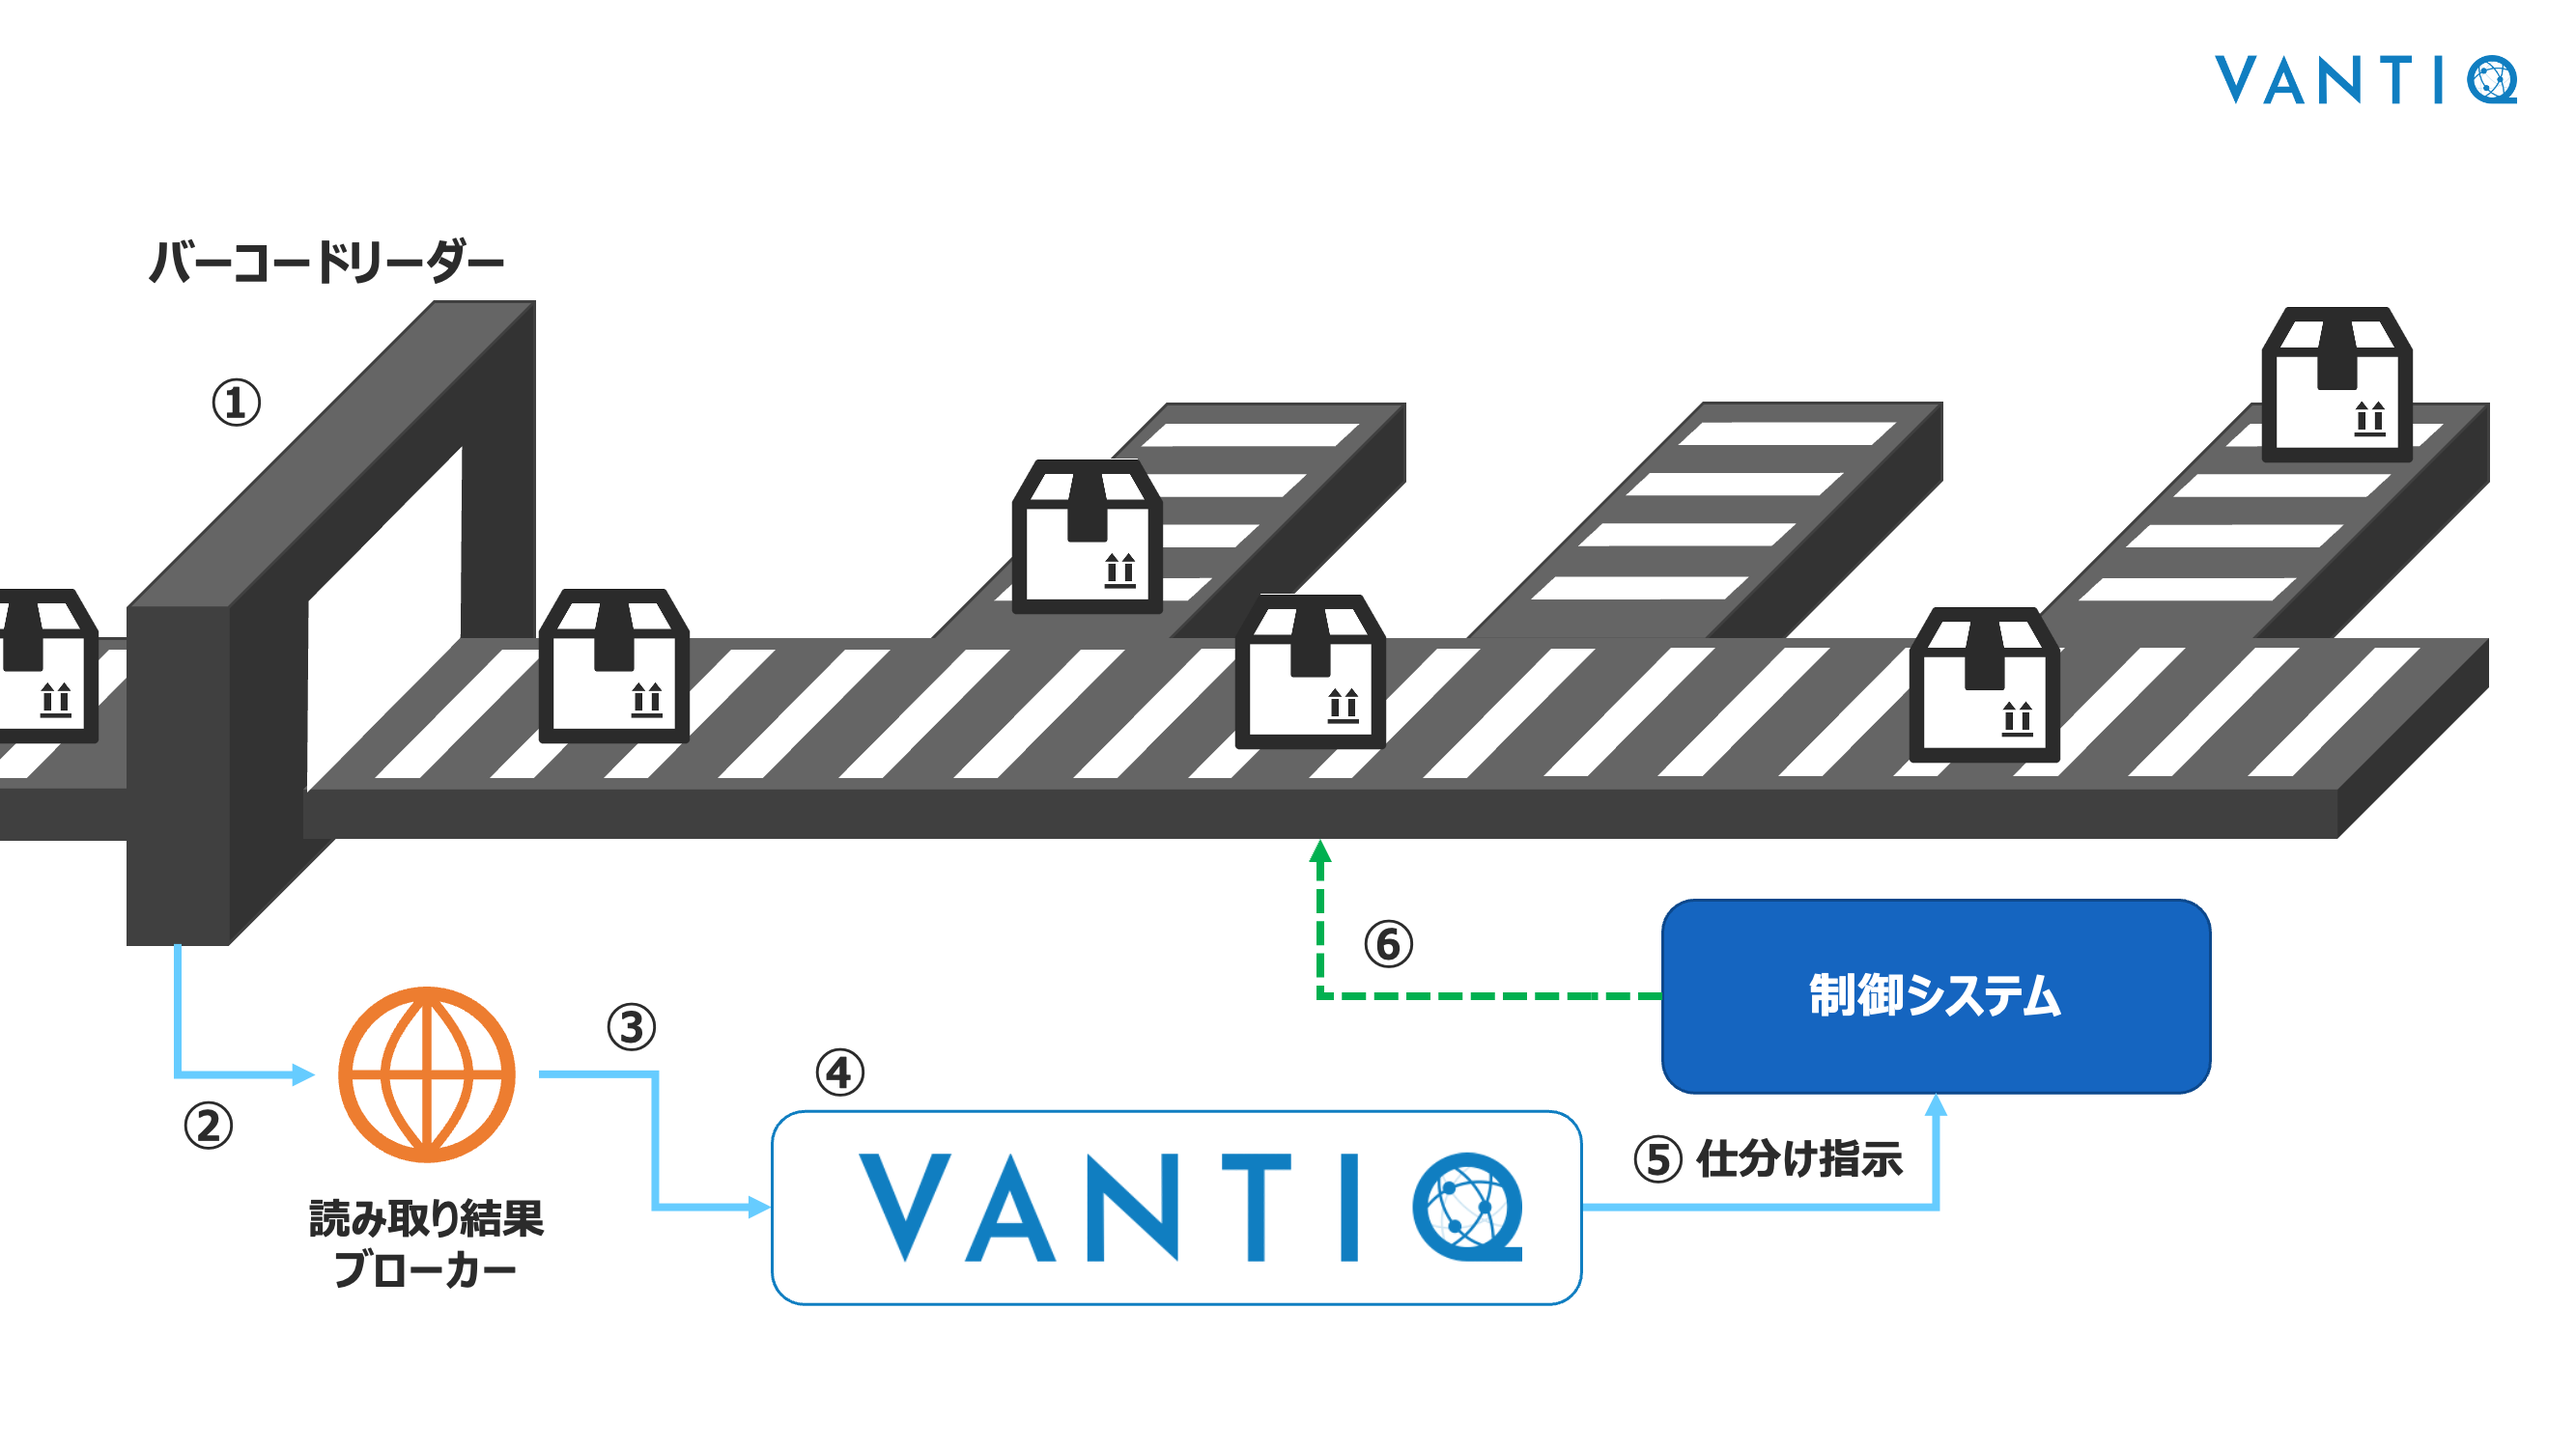
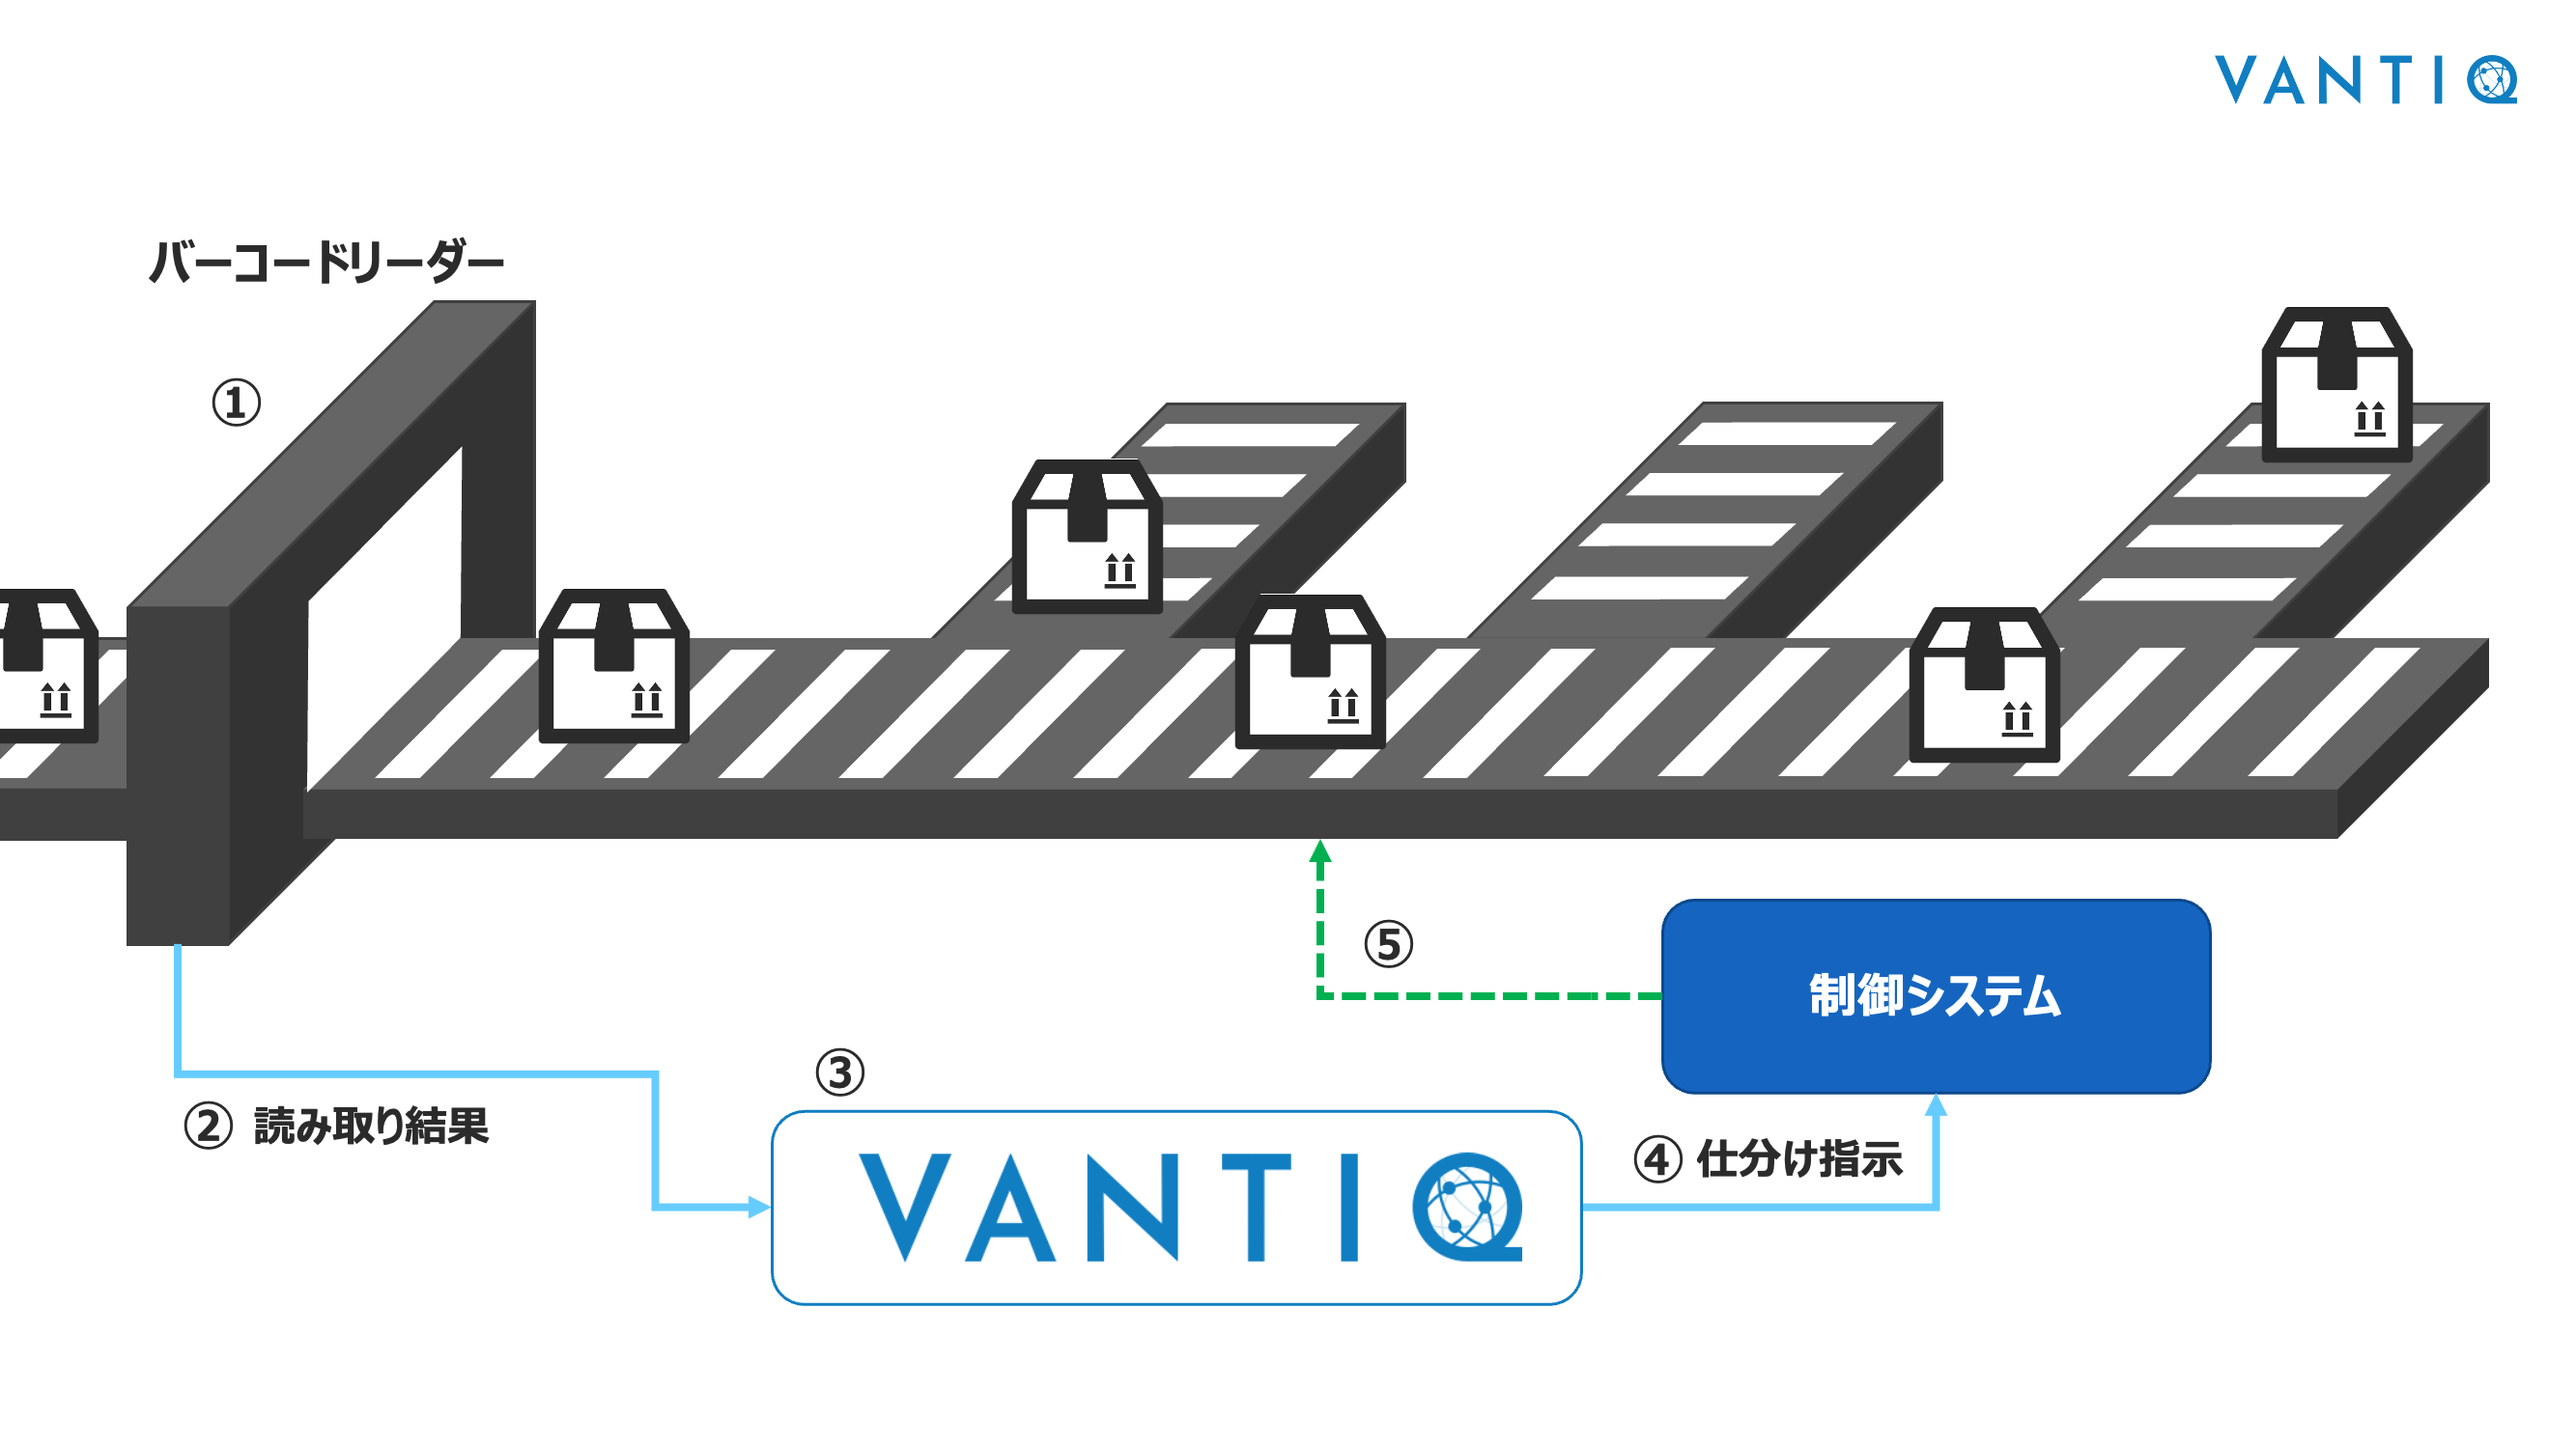
全体イメージの差し替え

Changed region(s): [[0.0934, 0.6747, 0.249, 0.8893]]

diff --git a/vantiq-apps-development/workshop-boxsorter/boxsorter-beginner/readme.md b/vantiq-apps-development/workshop-boxsorter/boxsorter-beginner/readme.md
@@ -9,8 +9,7 @@
 <img src="./imgs/overview.png" width="800">
 
 1. バーコードリーダーで荷物のバーコードを読み取る。
-1. 読み取った結果をブローカーに送信する。
-1. Vantiq はブローカーから読み取り結果を取得する。
+1. 読み取った結果を Vantiq に送信する。
 1. Vantiq はその結果を元に仕分けを行う。
 1. Vantiq は仕分け指示を制御システムに送信する。
 1. 制御システムは仕分け指示に従ってソーターを制御する。
